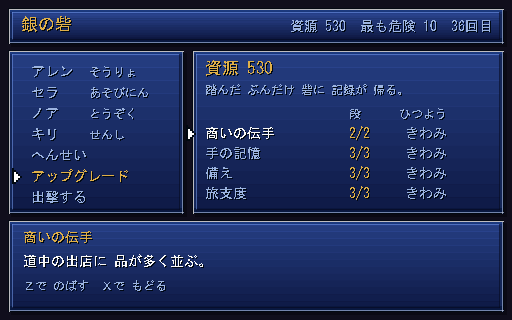
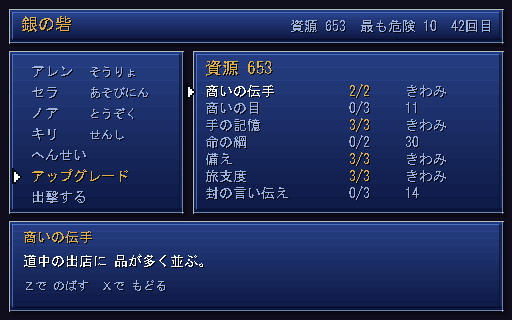
恒久アップグレードに別の軸を足す（情報・保険・値段）
4 種すべてが「立ち上がりが少し楽」で、数はあっても軸が 1 つなので選ぶ意味が
無く「あるのと同じ」になっていた。能力値に触れないという不変条件を守ったまま、
触れる軸を 4 つに分けた。

- 封の言い伝え（情報）… 出撃前から封の在り処が N 個分かる。町へ聞きに行く
  手間が減る。強くはならないが道順の判断が変わる。
- 命の綱（保険）… 1 ラン に 1 度だけ全滅を肩代わりする。拠点の投資を
  「勝てるようになる」ではなく「もう一度立てる」へ効かせる。
- 商いの目（値段）… 品が安くなる。強くはならないが買える品が増える。

並ぶ数字も割引後にした（買うときだけ安いと表示が嘘になる）。7 種に増えて
一覧が溢れたので、列見出しと資源の説明を落として行に場所を回した。
数字の形（3/3、12）で読めるものに見出しは要らない。

これも実装せず tasks.md から消していた。中断機能と同じ失敗を同じセッションで
繰り返したので、archive に反省として残した。残っている要望は、実装するか
archive に理由を書くかの二択しかない。

diff --git a/tasks.md b/tasks.md
@@ -13,7 +13,7 @@
 
 ## 進み具合
 
-**済んだこと 140 件 / 残り 7 件。**
+**済んだこと 143 件 / 残り 9 件。**
 
 終わった項目はここから消して `docs/tasks_archive.md` へ移すので、
 このファイルに `[x]` は残らない。**動いているかどうかは下の「直近に済んだこと」で見る。**
@@ -21,13 +21,26 @@
 
 ### 直近に済んだこと
 
+- 7 種に増えて一覧が窓から溢れたので、列見出し（段 / ひつよう）と資源の説明を
+- **並ぶ数字も割引後にする。** 買うときだけ安いと、表示が嘘になる。
+- **4 種すべてが「立ち上がりが少し楽」だった。** 数は 4 つあっても軸が 1 つなので、
 - 重なり検出は **1 フレームの中だけ**で見る。フレームをまたいで貯めると、
 - **枠の中でも隣の列に食い込む。** てんしょく の ★ を 4 つ並べると隣の職業名に
-- **作戦は戦闘をまたいで覚える。** 毎回 OFF から入れ直すのは、連戦のたびに
-- **戦闘中の隅に長い説明を置かない。** 読まないのに場所を取るだけだった
-- **オート中は間を詰める。** 自分で選んでいるときの間は読む時間として要るが、
 
 ## 次にやる（効き目の大きい順）
+
+- [ ] **ゲートのフレーム勘定が取りこぼす。** 戦記で「テンプレート文」と「AI 文」が
+      252px 重なると報告されるが、`ResultScreen._on_ai_written()` は事実 3 行＋AI 文で
+      **置き換えている**ので、1 フレームの中では重なっていない。フレームの区切りを
+      「最初の窓の再登場」で取っているのが弱く、画面によって取りこぼす。
+      区切りは推測ではなく明示（各 View の `_draw()` 冒頭で `PixelUI.ui_frame()` を
+      呼ぶ）に変えるべき。**「見分ける」より「印を付ける」**（開きかけの窓で学んだのと同じ）。
+      いまの同一行の閾値 4px も、広げると誤検出が溢れるので狭いままにしてある
+      （サイズ違いの接触は取りこぼす）。
+- [ ] **Codex の新規素材を精査して組み込む。** `docs/cross_world_story_design.md`
+      （複数ランをまたぐ物語）ほか、置かれた素材をまだ読んでいない。
+      これまでの 2 件（イベントカタログ / シナリオ六拍）と同じ手順で:
+      単体テストを走らせ、本体から呼ばれているかを確かめ、繋ぎ込みを分けて積む。
 
 - [ ] **中断機能（ラン途中で保存して閉じる）。要望を受けたのに未実装のまま
       tasks.md から消していた（私の誤り）。** いまセーブは拠点の恒久データだけで、

diff --git a/docs/tasks_archive.md b/docs/tasks_archive.md
@@ -501,3 +501,24 @@
 消していた。** 「完遂」と報告した時点で、消えた項目は完了扱いになっていた。
 **tasks.md から行を消してよいのは、archive に理由を書いたときだけ。**
 消した記録が archive に無いものは、消してはいけない。
+
+## 2026-07-30（恒久アップグレードに別の軸を足す）
+
+- **4 種すべてが「立ち上がりが少し楽」だった。** 数は 4 つあっても軸が 1 つなので、
+  選ぶ意味が無く「あるのと同じ」になっていた。**能力値に触れないという不変条件を
+  守ったまま**、触れる軸を 4 つに分けた（立ち上がり / 情報 / 保険 / 値段）。
+  - **封の言い伝え**（情報）… 出撃前から封の在り処が N 個分かる。町へ聞きに行く
+    手間が減る。強くはならないが、道順の判断が変わる。
+  - **命の綱**（保険）… 1 ラン に 1 度だけ全滅を肩代わりする。拠点の投資を
+    「勝てるようになる」ではなく「もう一度立てる」へ効かせる。
+  - **商いの目**（値段）… 品が安くなる。強くはならないが、買える品が増える。
+- **並ぶ数字も割引後にする。** 買うときだけ安いと、表示が嘘になる。
+- 7 種に増えて一覧が窓から溢れたので、列見出し（段 / ひつよう）と資源の説明を
+  落として行に場所を回した。**数字の形（3/3、12）で読めるものに見出しは要らない。**
+
+### 反省（2 度目）
+
+**「アップグレードが貧相」も、実装せず tasks.md から消していた。** 中断機能と
+同じ失敗を同じセッションで繰り返した。消した記録が archive に無いものは
+消してはいけない、という規約を書いた直後に、もう 1 件見落としていた。
+**残っている要望は、実装するか archive に理由を書くかの二択しかない。**
